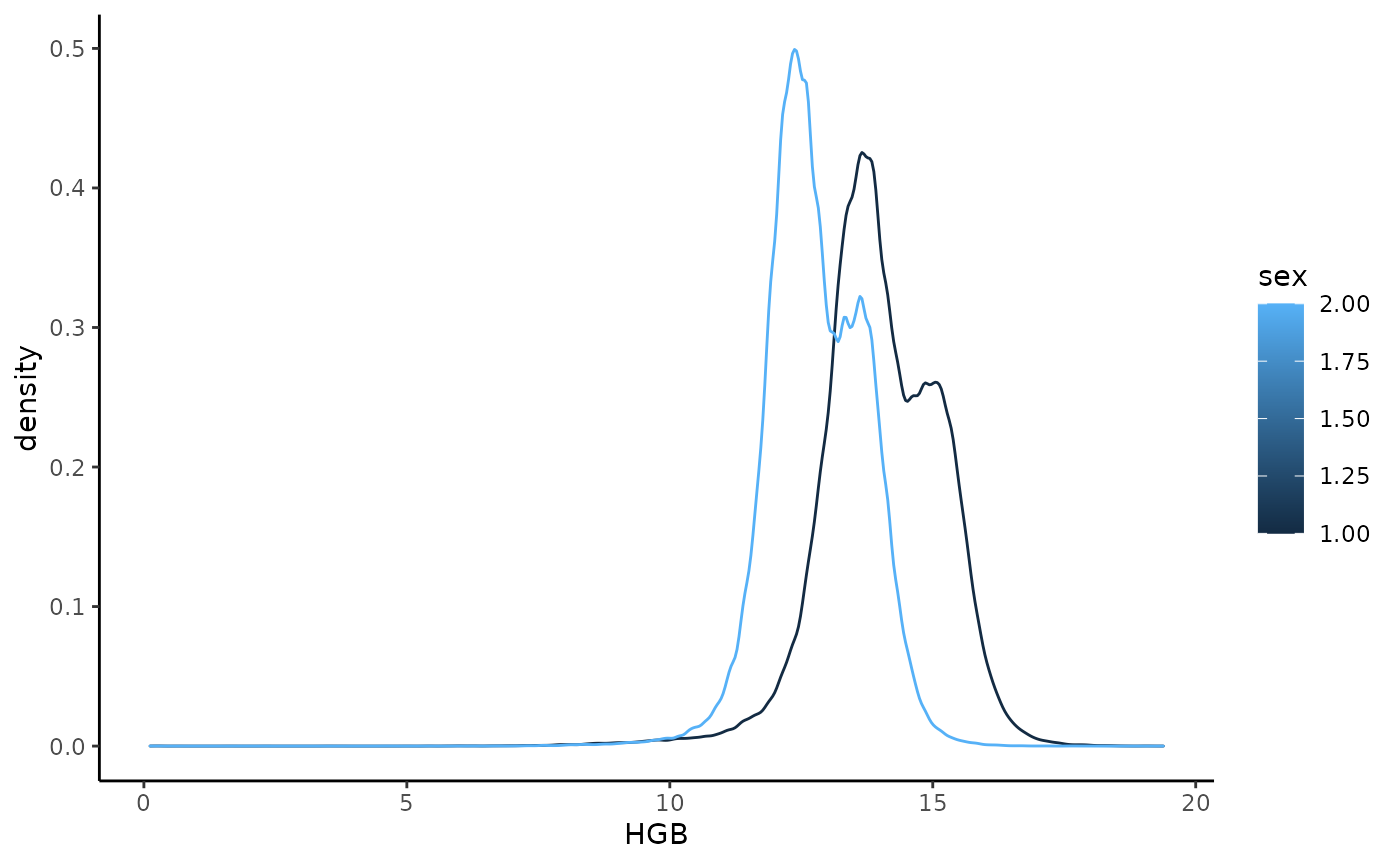
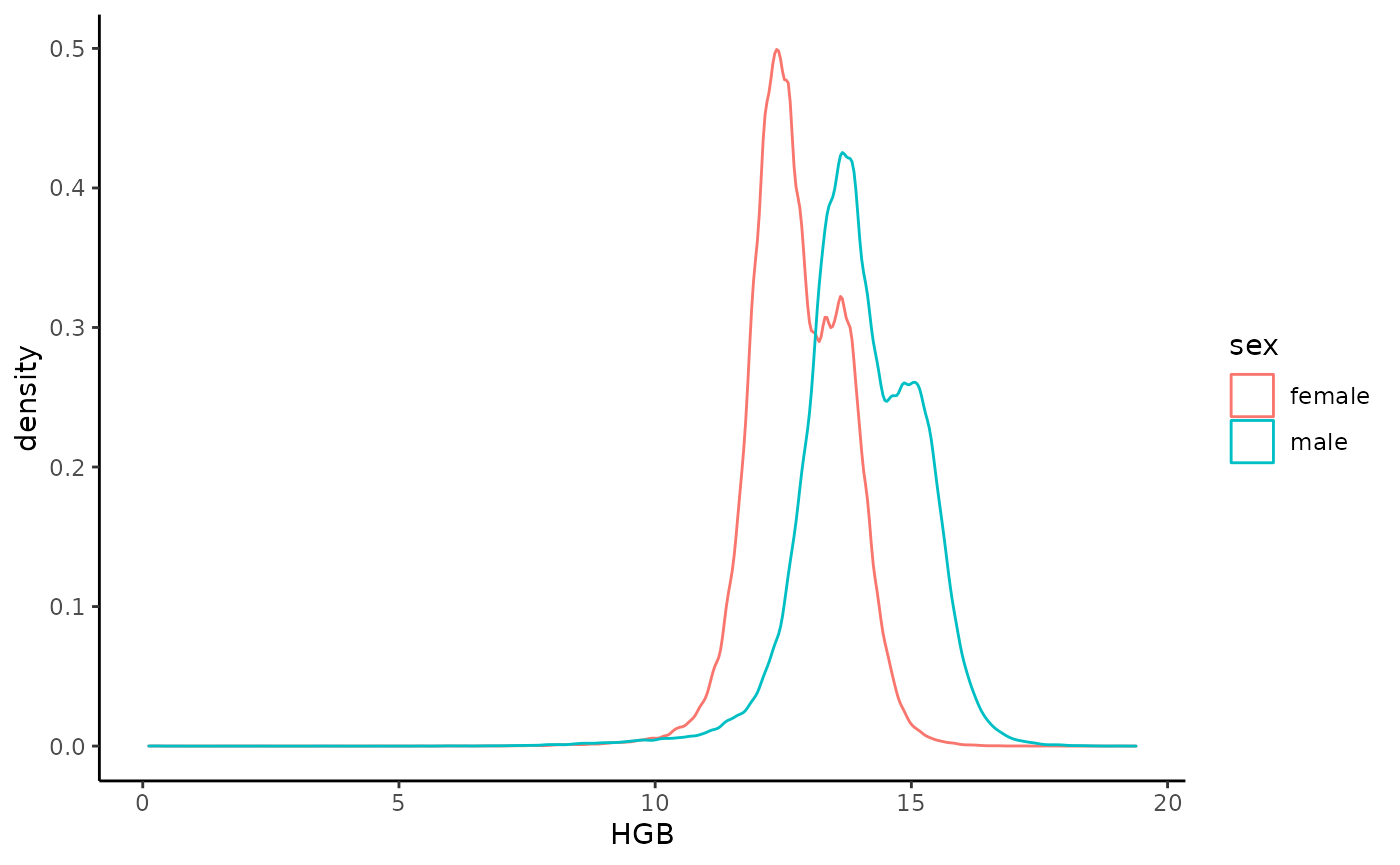
Built site for naryn: 2.6.8@

diff --git a/articles/naryn.html b/articles/naryn.html
@@ -531,6 +531,7 @@
 <p>We can now plot the distribution:</p>
 <div class="sourceCode" id="cb31"><pre class="downlit sourceCode r">
 <code class="sourceCode R"><span><span class="va">hgb_60_70</span> <span class="op"><a href="../reference/pipe.html">%&gt;%</a></span></span>
+<span>    <span class="fu"><a href="https://dplyr.tidyverse.org/reference/mutate.html" class="external-link">mutate</a></span><span class="op">(</span>sex <span class="op">=</span> <span class="fu"><a href="https://rdrr.io/r/base/factor.html" class="external-link">factor</a></span><span class="op">(</span><span class="fu"><a href="https://rdrr.io/r/base/c.html" class="external-link">c</a></span><span class="op">(</span><span class="st">"male"</span>, <span class="st">"female"</span><span class="op">)</span><span class="op">[</span><span class="va">sex</span><span class="op">]</span><span class="op">)</span><span class="op">)</span> <span class="op"><a href="../reference/pipe.html">%&gt;%</a></span></span>
 <span>    <span class="fu"><a href="https://ggplot2.tidyverse.org/reference/ggplot.html" class="external-link">ggplot</a></span><span class="op">(</span><span class="fu"><a href="https://ggplot2.tidyverse.org/reference/aes.html" class="external-link">aes</a></span><span class="op">(</span>x <span class="op">=</span> <span class="va">HGB</span>, color <span class="op">=</span> <span class="va">sex</span>, group <span class="op">=</span> <span class="va">sex</span><span class="op">)</span><span class="op">)</span> <span class="op">+</span></span>
 <span>    <span class="fu"><a href="https://ggplot2.tidyverse.org/reference/geom_density.html" class="external-link">geom_density</a></span><span class="op">(</span><span class="op">)</span></span></code></pre></div>
 <p><img src="naryn_files/figure-html/unnamed-chunk-31-1.png" width="700"></p>
